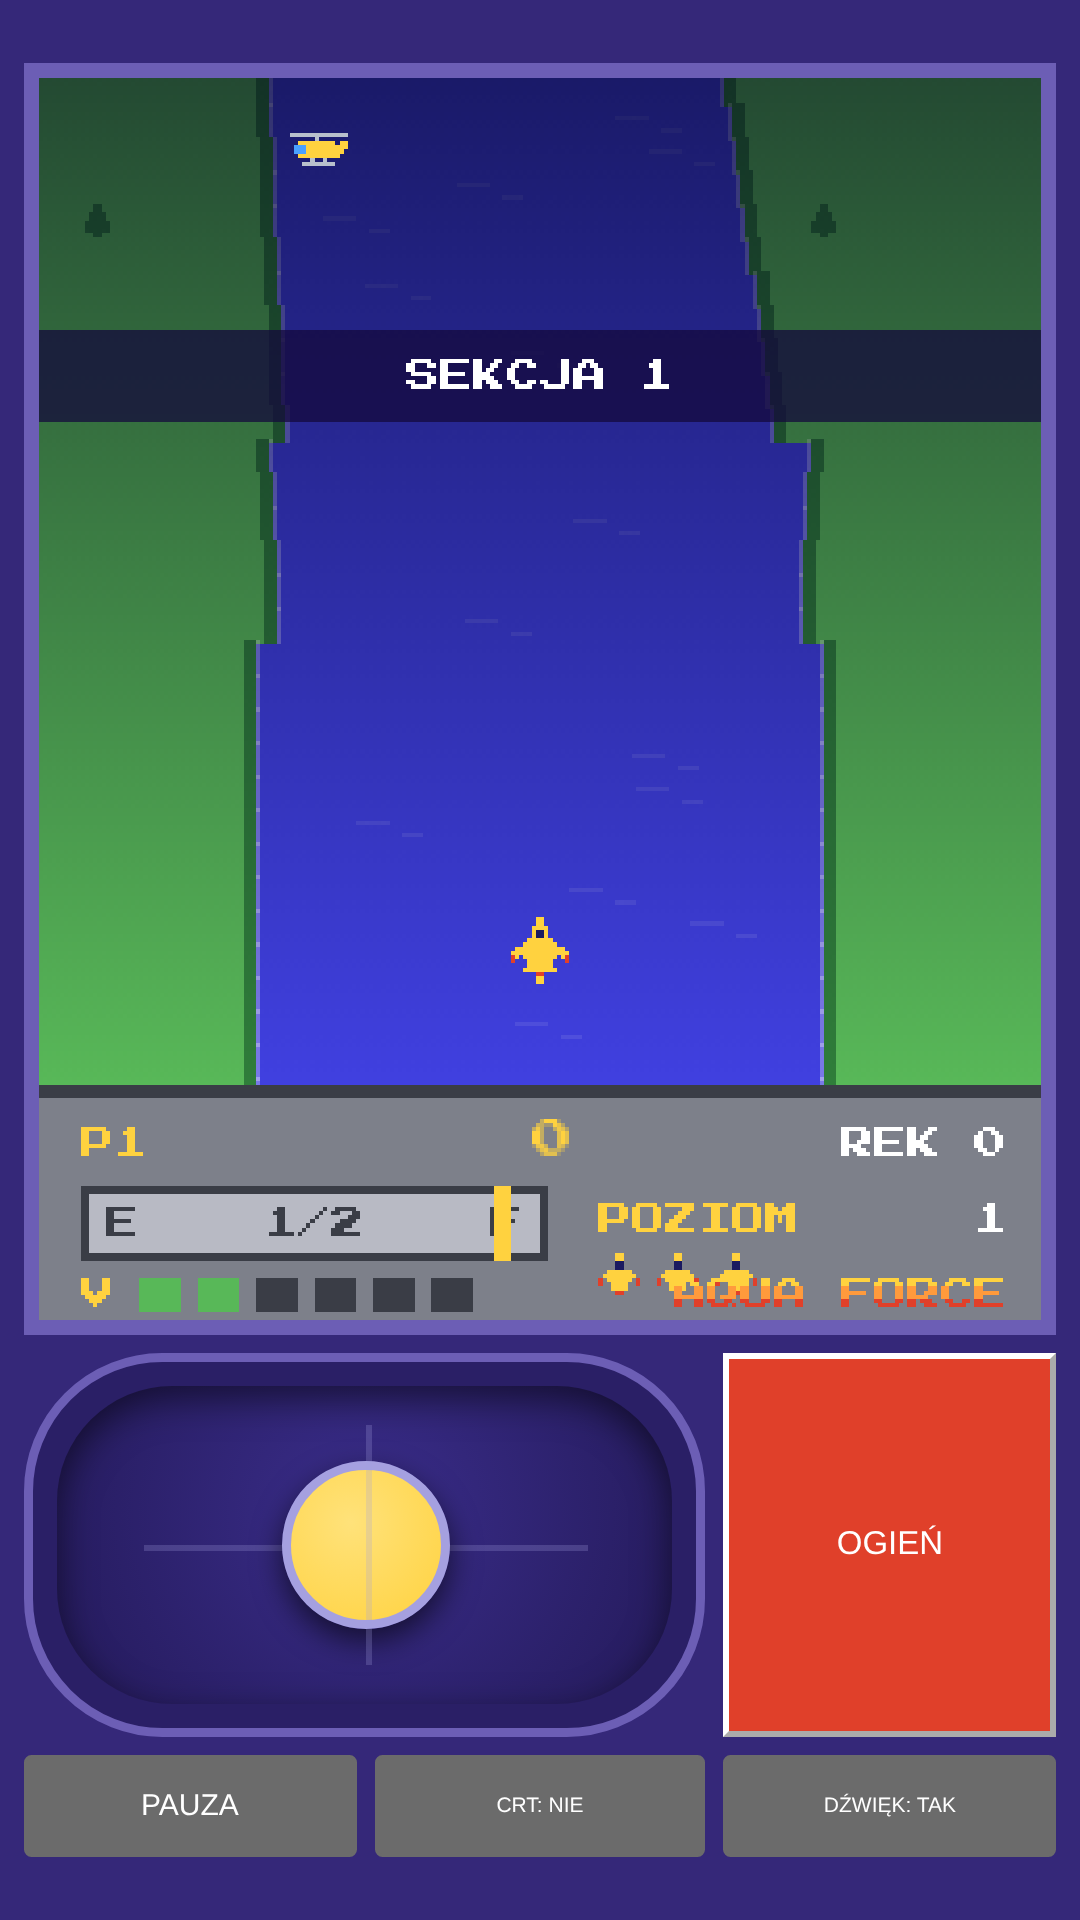
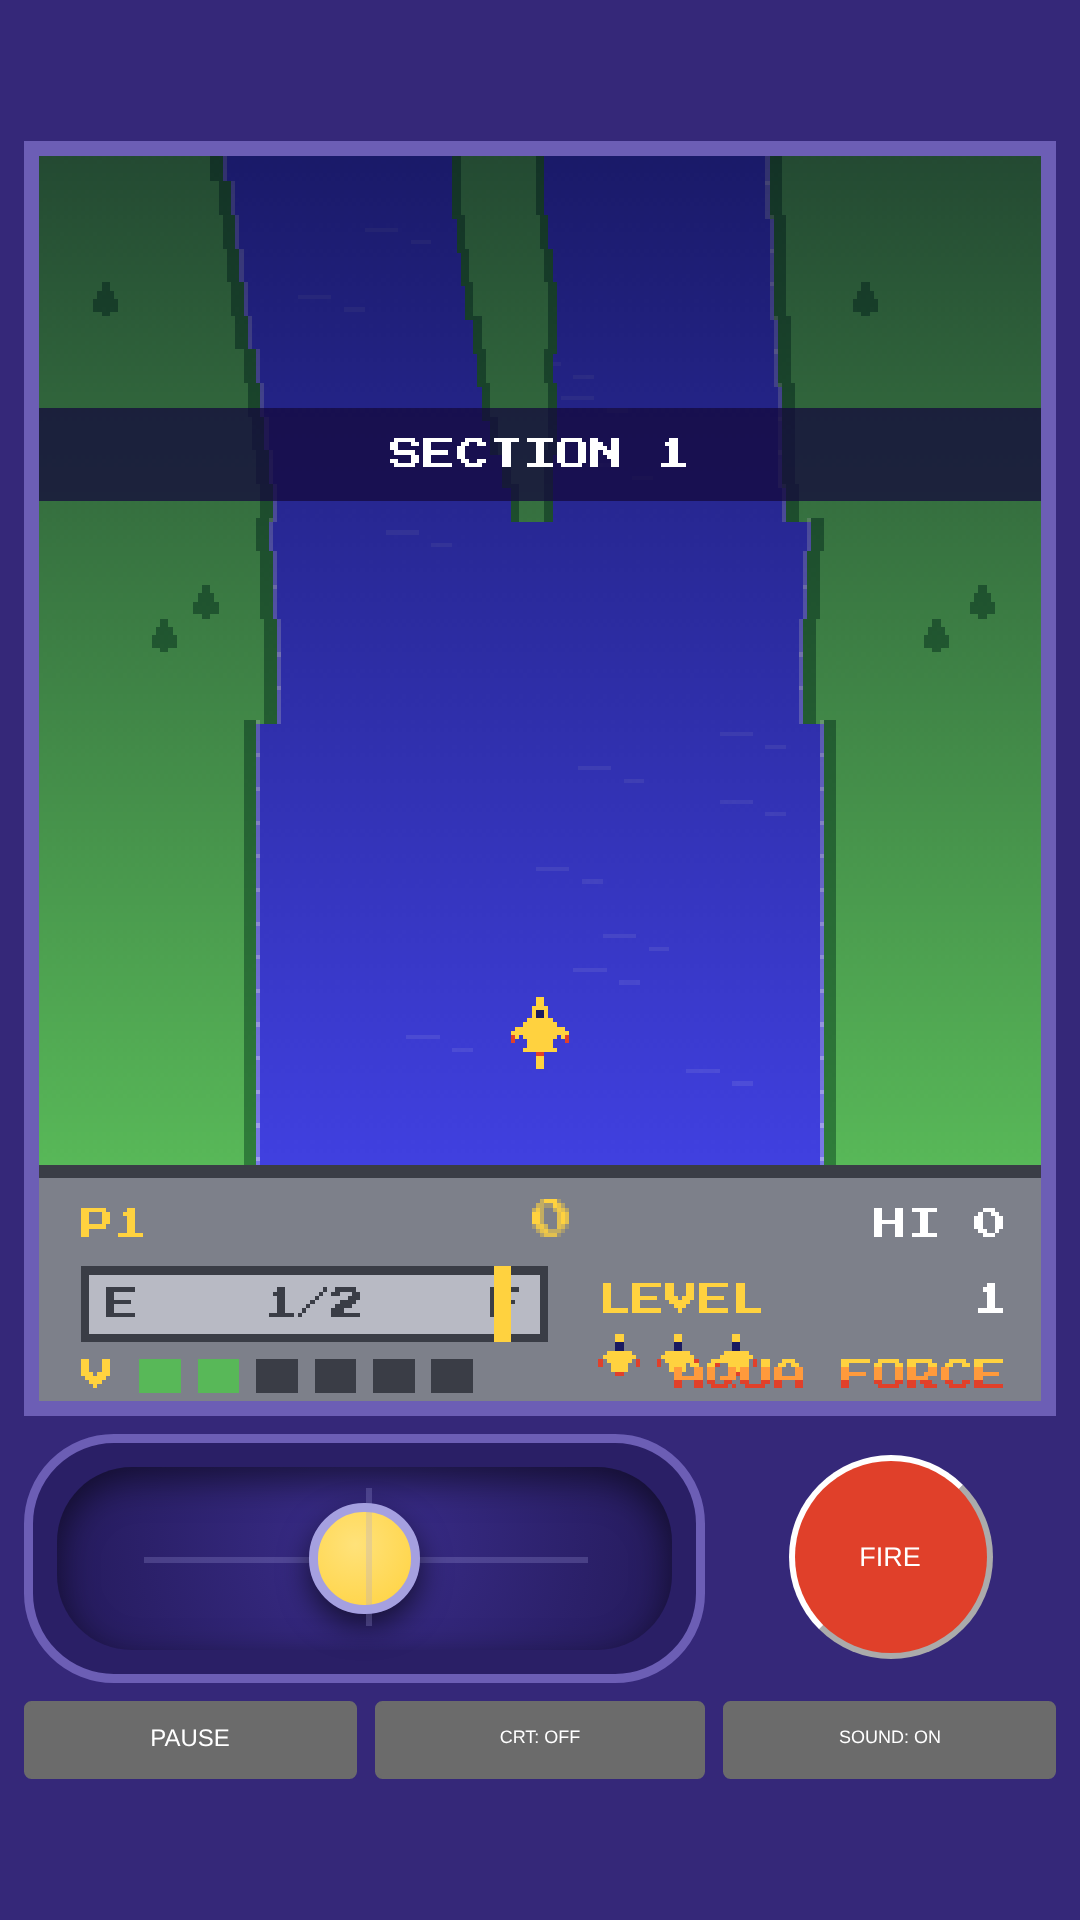
Aqua Force: English only, smaller controls, refreshed store assets

diff --git a/aqua-force/index.html b/aqua-force/index.html
@@ -1,11 +1,11 @@
 <!DOCTYPE html>
-<html lang="pl">
+<html lang="en">
 <head>
 <meta charset="utf-8">
 <meta name="viewport" content="width=device-width, initial-scale=1, viewport-fit=cover">
 <meta name="author" content="NovoPix Studio">
 <title>Aqua Force</title>
-<meta name="description" content="Aqua Force: zręcznościowa gra retro. Lecisz nad rzeką, zbierasz paliwo, strzelasz do wrogów i niszczysz mosty. Retro arcade river jet game.">
+<meta name="description" content="Aqua Force: retro arcade river jet game. Fly the river, collect fuel, shoot enemies and destroy bridges.">
 <meta name="theme-color" content="#352879">
 <meta name="mobile-web-app-capable" content="yes">
 <meta name="apple-mobile-web-app-capable" content="yes">
@@ -15,9 +15,8 @@
 <link rel="apple-touch-icon" href="icon-180.png">
 <link rel="preload" href="fonts/press-start-2p-latin.woff2" as="font" type="font/woff2" crossorigin>
 <style>
-@font-face{font-family:"Press Start 2P";font-style:normal;font-weight:400;font-display:swap;src:url(fonts/press-start-2p-latin-ext.woff2) format("woff2");unicode-range:U+0100-02BA, U+02BD-02C5, U+02C7-02CC, U+02CE-02D7, U+02DD-02FF, U+0304, U+0308, U+0329, U+1D00-1DBF, U+1E00-1E9F, U+1EF2-1EFF, U+2020, U+20A0-20AB, U+20AD-20C4, U+2113, U+2C60-2C7F, U+A720-A7FF}
 @font-face{font-family:"Press Start 2P";font-style:normal;font-weight:400;font-display:swap;src:url(fonts/press-start-2p-latin.woff2) format("woff2");unicode-range:U+0000-00FF, U+0131, U+0152-0153, U+02BB-02BC, U+02C6, U+02DA, U+02DC, U+0304, U+0308, U+0329, U+2000-206F, U+20AC, U+2122, U+2191, U+2193, U+2212, U+2215, U+FEFF, U+FFFD}
-:root{--bg:#352879;--fg:#a5a0e0;--panel:#2a1f66;--btn:#6c5eb5;--acc:#ffd23f;--ctl:clamp(100px,20dvh,150px);--w:min(calc(100vw - 16px),calc((100dvh - var(--ctl) - 34px - 44px) * .811),620px);box-sizing:border-box;padding-top:env(safe-area-inset-top,0px);padding-bottom:env(safe-area-inset-bottom,0px);color-scheme:dark}
+:root{--bg:#352879;--fg:#a5a0e0;--panel:#2a1f66;--btn:#6c5eb5;--acc:#ffd23f;--ctl:clamp(72px,13dvh,100px);--w:min(calc(100vw - 16px),calc((100dvh - var(--ctl) - 28px - 40px) * .811),640px);box-sizing:border-box;padding-top:env(safe-area-inset-top,0px);padding-bottom:env(safe-area-inset-bottom,0px);color-scheme:dark}
 *{box-sizing:border-box;-webkit-tap-highlight-color:transparent;user-select:none}
 html,body{height:100%;height:100dvh;margin:0;touch-action:manipulation}
 body{background:var(--bg);color:var(--fg);font-family:"Press Start 2P",ui-monospace,Menlo,monospace;display:flex;flex-direction:column;align-items:center;justify-content:center;gap:6px;padding:8px;overflow:hidden}
@@ -26,16 +25,16 @@ canvas{width:100%;height:100%;display:block;image-rendering:pixelated;touch-acti
 .scr.crt::after{content:"";position:absolute;inset:0;pointer-events:none;background:repeating-linear-gradient(to bottom,rgba(0,0,0,.34) 0,rgba(0,0,0,.34) 1px,transparent 1px,transparent 3px);box-shadow:inset 0 0 36px rgba(0,0,0,.6)}
 #pad{display:grid;grid-template-columns:repeat(6,1fr);gap:6px;width:var(--w);touch-action:none}
 #pad *{touch-action:none}
-#steer{grid-column:1/5;height:var(--ctl);background:var(--panel);border:3px solid var(--btn);border-radius:calc(var(--ctl)*.36);position:relative}
+#steer{grid-column:1/5;max-width:100%;height:var(--ctl);background:var(--panel);border:3px solid var(--btn);border-radius:calc(var(--ctl)*.36);position:relative}
 .jb{position:absolute;inset:8px;border-radius:calc(var(--ctl)*.3);background:radial-gradient(circle at 50% 40%,#3a2d8a,#241a5a);box-shadow:inset 0 4px 12px #0008}
 .jb::before{content:"";position:absolute;left:14%;right:14%;top:50%;height:2px;background:rgba(165,160,224,.25)}
 .jb::after{content:"";position:absolute;top:12%;bottom:12%;left:50%;width:2px;background:rgba(165,160,224,.25)}
 #jk{position:absolute;left:50%;top:50%;width:calc(var(--ctl)*.44);height:calc(var(--ctl)*.44);margin:calc(var(--ctl)*-.22) 0 0 calc(var(--ctl)*-.22);border-radius:50%;background:radial-gradient(circle at 40% 35%,#8f82d6,#5a4cae);border:3px solid var(--fg);box-shadow:0 4px 10px #0009;will-change:transform}
 #steer.on #jk{background:radial-gradient(circle at 40% 35%,#ffe27a,#ffd23f)}
-#fire{grid-column:5/7;height:var(--ctl);font-size:11px;background:#e0402a;color:#fff}
+#fire{grid-column:5/7;width:calc(var(--ctl)*.82);height:calc(var(--ctl)*.82);justify-self:center;align-self:center;border-radius:50%;font-size:9px;background:#e0402a;color:#fff}
 #fire.on{background:var(--acc);color:#000}
-#start{grid-column:span 2;height:34px;font-size:10px}
-.tg{grid-column:span 2;font-size:7px}
+#start{grid-column:span 2;height:26px;font-size:8px}
+.tg{grid-column:span 2;height:26px;font-size:6px}
 @media (orientation:landscape) and (max-height:520px){:root{--w:calc((100dvh - 24px) * .811);--ctl:clamp(66px,26dvh,100px)}body{flex-direction:row;gap:14px}#pad{width:min(calc(100vw - var(--w) - 48px),380px);align-content:center}}
 </style>
 </head>
@@ -43,9 +42,9 @@ canvas{width:100%;height:100%;display:block;image-rendering:pixelated;touch-acti
 <div class="scr" id="scr"><canvas id="c" width="240" height="296"></canvas></div>
 <div id="pad">
 <div id="steer"><div class="jb"><div id="jk"></div></div></div>
-<button id="fire">OGIEŃ</button>
+<button id="fire">FIRE</button>
 <button id="start">START</button>
-<button id="crtb" class="tg">CRT: NIE</button><button id="snd" class="tg">DŹWIĘK: TAK</button>
+<button id="crtb" class="tg">CRT: OFF</button><button id="snd" class="tg">SOUND: ON</button>
 </div>
 <script>
 const cv=document.getElementById('c'),g=cv.getContext('2d');g.imageSmoothingEnabled=false;
@@ -80,11 +79,11 @@ function hud(){
  g.fillStyle=C.mg;g.fillRect(0,y,W,CH-H);g.fillStyle=C.dg;g.fillRect(0,y,W,3);
  g.font=F8;g.textAlign='left';g.fillStyle=C.y;g.fillText('P1',10,y+18);
  g.textAlign='right';g.font='10px "Press Start 2P",monospace';g.fillText(score,128,y+18);
- g.font=F8;g.fillStyle=C.w;g.fillText('REK '+Math.max(hi,score),W-8,y+18);
+ g.font=F8;g.fillStyle=C.w;g.fillText('HI '+Math.max(hi,score),W-8,y+18);
  g.fillStyle=C.dg;g.fillRect(10,y+24,112,18);g.fillStyle=C.gr;g.fillRect(12,y+26,108,14);
  g.fillStyle=C.dg;g.textAlign='left';g.fillText('E',16,y+37);g.textAlign='center';g.fillText('1/2',66,y+37);g.textAlign='right';g.fillText('F',116,y+37);
  g.fillStyle=(fuel<25&&tick%16<8)?C.r:C.y;g.fillRect((14+Math.max(0,fuel)/100*100)|0,y+24,4,18);
- g.textAlign='left';g.fillStyle=C.y;g.fillText('POZIOM',134,y+36);g.textAlign='right';g.fillStyle=C.w;g.fillText(lvl,W-8,y+36);
+ g.textAlign='left';g.fillStyle=C.y;g.fillText('LEVEL',134,y+36);g.textAlign='right';g.fillStyle=C.w;g.fillText(lvl,W-8,y+36);
  for(let i=0;i<lives;i++)g.drawImage(S.p,134+i*14,y+40,10,10);
  const sl=Math.round((spd-.5)/2.5*5)+1;
  g.textAlign='left';g.fillStyle=C.y;g.fillText('V',10,y+54);
@@ -139,7 +138,7 @@ function boom(x,y,n,c){for(let i=0;i<n;i++)parts.push({x,y,vx:R(-2,2),vy:R(-2,2)
 function die(){
  noise(.9,2400,120,.28);tone(120,.7,'sawtooth',30,.08);boom(p.x+7,p.y+7,28);lives--;pause=60;
  if(lives<0){state='over';$('start').textContent='START';saveScore()}
- else{const pp=parts;reset(false);parts=pp;pause=60;msg='SEKCJA '+lvl;msgT=120}
+ else{const pp=parts;reset(false);parts=pp;pause=60;msg='SECTION '+lvl;msgT=120}
 }
 function rowAt(y){return rows[Math.floor((y-off)/RH)+1]}
 const PTS={s:30,h:60,j:100,b:60,t:250,f:80};
@@ -170,7 +169,7 @@ function update(){
  if(bul){
   bul.y-=7;
   const r=rowAt(bul.y);let hit=bul.y<-4;
-  if(r&&r.b===1){rows.forEach(q=>{if(q.b===1)q.b=2});score+=500;lvl++;hit=true;msg='MOST ZNISZCZONY +500';msgT=100;noise(1.1,2000,90,.32);tone(90,.9,'sawtooth',25,.08);boom(bul.x,bul.y,40,'#8a8f96')}
+  if(r&&r.b===1){rows.forEach(q=>{if(q.b===1)q.b=2});score+=500;lvl++;hit=true;msg='BRIDGE DESTROYED +500';msgT=100;noise(1.1,2000,90,.32);tone(90,.9,'sawtooth',25,.08);boom(bul.x,bul.y,40,'#8a8f96')}
   for(const e of ents)if(bul&&!e.dead&&bul.x>e.x&&bul.x<e.x+e.w&&bul.y>e.y&&bul.y<e.y+e.h){score+=PTS[e.t];e.dead=1;hit=true;noise(.35,3000,300,.2);tone(220,.18,'square',60,.04);boom(e.x+e.w/2,e.y+e.h/2,14)}
   ents=ents.filter(e=>!e.dead);if(hit)bul=null;
  }
@@ -208,11 +207,11 @@ function titleBox(){
  g.fillStyle='#000';g.fillText('AQUA',W/2+3,65);g.fillText('FORCE',W/2+3,97);
  g.fillStyle=band(38,66,LOGO);g.fillText('AQUA',W/2,62);g.fillText('FORCE',W/2,94);
  g.font='8px "Press Start 2P",monospace';g.fillStyle='#a5a0e0';
- g.fillText(state==='over'?'KONIEC GRY  '+score:'Zniszcz mosty. Pilnuj paliwa.',W/2,116);
- g.fillStyle=C.y;g.fillText('NAJLEPSZE WYNIKI',W/2,134);
- if(!tops.length){g.fillStyle='#a5a0e0';g.fillText('BRAK WYNIKÓW',W/2,152)}
+ g.fillText(state==='over'?'GAME OVER  '+score:'Destroy bridges. Refuel.',W/2,116);
+ g.fillStyle=C.y;g.fillText('BEST SCORES',W/2,134);
+ if(!tops.length){g.fillStyle='#a5a0e0';g.fillText('NO SCORES YET',W/2,152)}
  tops.forEach((e,i)=>{g.fillStyle=(state==='over'&&i===newIdx&&tick%30<20)?C.w:(i===0?C.y:'#a5a0e0');g.fillText((i+1)+'. '+String(e.s).padStart(6,'0')+'  S'+e.l,W/2,152+i*13)});
- if(tick%50<32){g.fillStyle=C.w;g.fillText('NACIŚNIJ START',W/2,218)}
+ if(tick%50<32){g.fillStyle=C.w;g.fillText('PRESS START',W/2,218)}
  g.fillStyle=C.lb;g.fillText('(C) NOVOPIX STUDIO',W/2,230);
 }
 function draw(){
@@ -232,10 +231,10 @@ function draw(){
  hud();g.textAlign='center';
  if(state==='play'){
   g.font='8px "Press Start 2P",monospace';
-  if(!paused&&fuel<25&&tick%32<20){g.fillStyle=C.lr;g.fillText('PALIWO!',W/2,16)}
+  if(!paused&&fuel<25&&tick%32<20){g.fillStyle=C.lr;g.fillText('FUEL!',W/2,16)}
   if(msgT>0){g.fillStyle='rgba(20,10,60,.75)';g.fillRect(0,60,W,22);g.fillStyle=C.w;g.fillText(msg,W/2,75)}
  }
- if(paused&&state==='play'){g.fillStyle='rgba(20,10,60,.75)';g.fillRect(0,100,W,50);g.fillStyle=C.w;g.font='14px "Press Start 2P",monospace';g.fillText('PAUZA',W/2,132)}
+ if(paused&&state==='play'){g.fillStyle='rgba(20,10,60,.75)';g.fillRect(0,100,W,50);g.fillStyle=C.w;g.font='14px "Press Start 2P",monospace';g.fillText('PAUSE',W/2,132)}
  if(state==='title'||state==='over')titleBox();
 }
 let acc=0,last=0;
@@ -248,10 +247,10 @@ function step(){
  if(state==='play'){if(!paused)update();engine(!paused&&pause<=0)}
  else{engine(false);off+=1.2;while(off>=RH){off-=RH;rows.unshift(mkRow(false));rows.pop()}parts.forEach(q=>{q.x+=q.vx;q.y+=q.vy;q.l--});parts=parts.filter(q=>q.l>0);if(state==='over'&&pause>0)pause--}
 }
-function start(){if(state==='play')return;if(state==='over'&&pause>0)return;reset(true);state='play';paused=false;msg='SEKCJA 1';msgT=100;$('start').textContent='PAUZA';try{AC&&AC.resume()}catch(e){}tone(440,.1,'square',880,.04)}
-function setMute(v){muted=v;lsSet('aquaforce-mute',v?'1':'0');$('snd').textContent='DŹWIĘK: '+(v?'NIE':'TAK');try{AC&&AC.resume()}catch(e){}}
-function setCRT(v){crt=v;lsSet('aquaforce-crt',v?'1':'0');$('scr').classList.toggle('crt',v);$('crtb').textContent='CRT: '+(v?'TAK':'NIE')}
-function togglePause(){paused=!paused;$('start').textContent=paused?'DALEJ':'PAUZA'}
+function start(){if(state==='play')return;if(state==='over'&&pause>0)return;reset(true);state='play';paused=false;msg='SECTION 1';msgT=100;$('start').textContent='PAUSE';try{AC&&AC.resume()}catch(e){}tone(440,.1,'square',880,.04)}
+function setMute(v){muted=v;lsSet('aquaforce-mute',v?'1':'0');$('snd').textContent='SOUND: '+(v?'OFF':'ON');try{AC&&AC.resume()}catch(e){}}
+function setCRT(v){crt=v;lsSet('aquaforce-crt',v?'1':'0');$('scr').classList.toggle('crt',v);$('crtb').textContent='CRT: '+(v?'ON':'OFF')}
+function togglePause(){paused=!paused;$('start').textContent=paused?'RESUME':'PAUSE'}
 addEventListener('keydown',e=>{
  const k=e.key.length===1?e.key.toLowerCase():e.key;
  if(state!=='play'&&(e.key===' '||e.key==='Enter')){start();e.preventDefault();return}
@@ -280,7 +279,7 @@ $('snd').addEventListener('pointerdown',e=>{e.preventDefault();setMute(!muted)})
 const fb=$('fire');
 fb.addEventListener('pointerdown',e=>{e.preventDefault();fb.setPointerCapture(e.pointerId);keys.fire=true;fireTap=8;fb.classList.add('on');if(state!=='play')start()});
 ['pointerup','pointercancel'].forEach(n=>fb.addEventListener(n,()=>{keys.fire=false;fb.classList.remove('on')}));
-document.addEventListener('visibilitychange',()=>{if(document.hidden&&state==='play'&&!paused){paused=true;$('start').textContent='DALEJ'}});
+document.addEventListener('visibilitychange',()=>{if(document.hidden&&state==='play'&&!paused){paused=true;$('start').textContent='RESUME'}});
 addEventListener('blur',()=>{keys={};steer=0});
 addEventListener('contextmenu',e=>e.preventDefault());
 try{document.fonts.load('8px "Press Start 2P"')}catch(e){}

diff --git a/aqua-force/privacy.html b/aqua-force/privacy.html
@@ -1,5 +1,5 @@
 <!doctype html>
-<html lang="en"><head><meta charset="utf-8"><meta name="viewport" content="width=device-width,initial-scale=1"><title>Aqua Force: Privacy Policy / Polityka prywatności</title>
+<html lang="en"><head><meta charset="utf-8"><meta name="viewport" content="width=device-width,initial-scale=1"><title>Aqua Force: Privacy Policy</title>
 <meta name="robots" content="index,follow"><style>body{font:16px/1.6 system-ui,sans-serif;max-width:760px;margin:0 auto;padding:24px 16px;background:#241a5a;color:#e8e4ff}h1,h2{color:#ffd23f}a{color:#9fd8ff}hr{border:0;border-top:1px solid #6c5eb5;margin:32px 0}</style></head><body>
 <h1>Aqua Force: Privacy Policy</h1>
 <p><b>Last updated: 25 November 2026.</b> Aqua Force is a free arcade game made by NovoPix Studio (contact: <a href="mailto:contact@novopix.uk">contact@novopix.uk</a>).</p>
@@ -13,17 +13,4 @@
 <p>The game collects no personal data from anyone, including children. It contains mild cartoon-style action (shooting retro ships and planes).</p>
 <h2>Changes and contact</h2>
 <p>If this policy changes, the new version will appear on this page with a new date. Questions: <a href="mailto:contact@novopix.uk">contact@novopix.uk</a>.</p>
-<hr>
-<h1>Aqua Force: Polityka prywatności</h1>
-<p><b>Ostatnia aktualizacja: 25 listopada 2026.</b> Aqua Force to darmowa gra zręcznościowa stworzona przez NovoPix Studio (kontakt: <a href="mailto:contact@novopix.uk">contact@novopix.uk</a>).</p>
-<h2>Jakie dane zbieramy</h2>
-<p>Żadnych. Gra nie ma kont, reklam, analityki, zakupów w aplikacji ani śledzenia. Nie prosi o imię, e-mail, lokalizację, kontakty, aparat ani mikrofon.</p>
-<h2>Co zapisujemy na Twoim urządzeniu</h2>
-<p>Gra zapisuje w pamięci lokalnej urządzenia pięć najlepszych wyników oraz ustawienia dźwięku i filtra ekranu, żebyś miał je przy następnym uruchomieniu. Te dane nigdy nie opuszczają urządzenia i możesz je usunąć, czyszcząc dane aplikacji lub dane witryny w przeglądarce.</p>
-<h2>Podmioty trzecie</h2>
-<p>Gra nie ładuje kodu, czcionek ani reklam podmiotów trzecich. Gdy grasz w przeglądarce, nasz serwer może przechowywać standardowe logi (np. adres IP i czas żądania) dla bezpieczeństwa i działania serwisu.</p>
-<h2>Dzieci</h2>
-<p>Gra nie zbiera danych osobowych od nikogo, także od dzieci. Zawiera łagodną, rysunkową akcję (strzelanie do retro statków i samolotów).</p>
-<h2>Zmiany i kontakt</h2>
-<p>Jeśli polityka się zmieni, nowa wersja pojawi się na tej stronie z nową datą. Pytania: <a href="mailto:contact@novopix.uk">contact@novopix.uk</a>.</p>
 </body></html>

diff --git a/aqua-force/sw.js b/aqua-force/sw.js
@@ -1,5 +1,5 @@
-const CACHE='aquaforce-v2';
-const FILES=['./','./index.html','./manifest.webmanifest','./icon.svg','./icon-180.png','./icon-192.png','./icon-512.png','./icon-maskable-512.png','./privacy.html','./fonts/press-start-2p-latin.woff2','./fonts/press-start-2p-latin-ext.woff2'];
+const CACHE='aquaforce-v3';
+const FILES=['./','./index.html','./manifest.webmanifest','./icon.svg','./icon-180.png','./icon-192.png','./icon-512.png','./icon-maskable-512.png','./privacy.html','./fonts/press-start-2p-latin.woff2'];
 self.addEventListener('install',e=>{e.waitUntil(caches.open(CACHE).then(c=>c.addAll(FILES)).then(()=>self.skipWaiting()))});
 self.addEventListener('activate',e=>{e.waitUntil(caches.keys().then(k=>Promise.all(k.filter(x=>x!==CACHE).map(x=>caches.delete(x)))).then(()=>self.clients.claim()))});
 self.addEventListener('fetch',e=>{

diff --git a/aqua-force/store/LISTING.md b/aqua-force/store/LISTING.md
@@ -1,4 +1,4 @@
-# Aqua Force: Google Play listing (EN / PL)
+# Aqua Force: Google Play listing (English only)
 
 Package name (propozycja): `uk.novopix.aquaforce`
 Prywatność: https://novopix.uk/aqua-force/privacy.html
@@ -26,28 +26,6 @@ Features
 - Top 5 scores saved on your device
 - Works offline, no ads, no accounts, no in-app purchases, no tracking
 - Plays in portrait and landscape
-
-## PL
-**Tytuł (max 30):** Aqua Force
-**Krótki opis (max 80):** Retro gra zręcznościowa: leć nad rzeką, tankuj i niszcz mosty.
-**Pełny opis:**
-Leć nisko nad rzeką w szybkiej strzelance w stylu retro. Omijaj wyspy i brzegi, strzelaj do okrętów, śmigłowców, odrzutowców, balonów i czołgów i pilnuj wskaźnika paliwa.
-
-Jak grać
-- Przesuwaj joystick w lewo i w prawo, żeby skręcać.
-- Wychyl go w górę, żeby lecieć szybciej, w dół, żeby zwolnić. Puść, a samolot wróci do normalnej prędkości.
-- Przytrzymaj OGIEŃ, żeby strzelać. Strzela też dotknięcie ekranu gry.
-- Przelot przez zbiornik paliwa tankuje, a zestrzelenie daje punkty.
-- Zniszcz most na końcu sekcji, żeby przejść do następnej. Rzeka się zwęża, a wrogowie są coraz groźniejsi.
-- Dodatkowe życie co 3000 punktów.
-
-Cechy
-- Klasyczny klimat arcade, paleta retro 8-bit i opcjonalny filtr linii CRT
-- Analogowy joystick: skręt, przyspieszanie i zwalnianie jednym kciukiem
-- Nieskończone sekcje ze zmieniającymi się kolorami rzeki i rosnącą trudnością
-- Pięć najlepszych wyników zapisanych na urządzeniu
-- Działa offline, bez reklam, kont, zakupów w aplikacji i śledzenia
-- Pion i poziom
 
 ## Kategoria i oznaczenia (do formularzy w Play Console)
 - Typ: Gra. Kategoria: Arcade. Tagi: arcade, retro, strzelanka.
